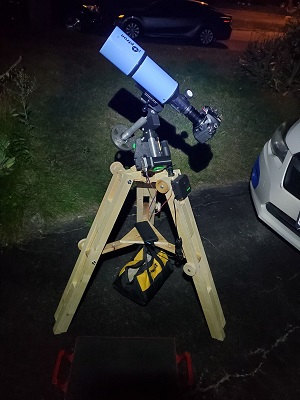
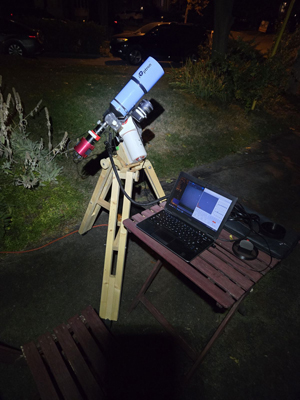
Updated astro page with Veil and new rig.

diff --git a/astro.html b/astro.html
@@ -27,18 +27,23 @@
 					<div id="main">
 						<article class="thumb">
 							<a href="images/astro/fulls/rig.jpg" class="image"><img src="images/astro/thumbs/rig.jpg" alt="" /></a>
-							<h2>DIY Equatorial Mount and Tripod</h2>
+							<h2>DIY Equatorial Mount and Guiding System</h2>
+							<p>Closed-loop guiding with PID control</p>
+						</article>
+						<article class="thumb">
+							<a href="images/astro/fulls/veil.jpg" class="image"><img src="images/astro/thumbs/veil.jpg" alt="" /></a>
+							<h2>Western Veil Nebula (NGC 6960)</h2>
+							<p>ZWO ASI533MC Pro, 80mm f/5 telescope, 44 x 120s, guided</p>
+						</article>
+						<article class="thumb">
+							<a href="images/astro/fulls/pleiades.jpg" class="image"><img src="images/astro/thumbs/pleiades.jpg" alt="" /></a>
+							<h2>Pleiades Cluster (M45)</h2>
 							<p>Nikon D7100, 80mm f/5 telescope</p>
 						</article>
 						<article class="thumb">
 							<a href="images/astro/fulls/M31.jpg" class="image"><img src="images/astro/thumbs/M31.jpg" alt="" /></a>
 							<h2>Andromeda Galaxy (M31)</h2>
 							<p>Nikon D7100, 300mm lens</p>
-						</article>
-						<article class="thumb">
-							<a href="images/astro/fulls/pleiades.jpg" class="image"><img src="images/astro/thumbs/pleiades.jpg" alt="" /></a>
-							<h2>Pleiades Cluster (M45)</h2>
-							<p>Nikon D7100, 80mm f/5 telescope</p>
 						</article>
 						<article class="thumb">
 							<a href="images/astro/fulls/moon.jpg" class="image"><img src="images/astro/thumbs/moon.jpg" alt="" /></a>
